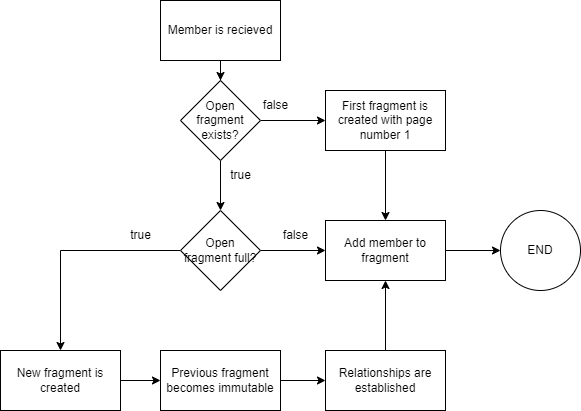
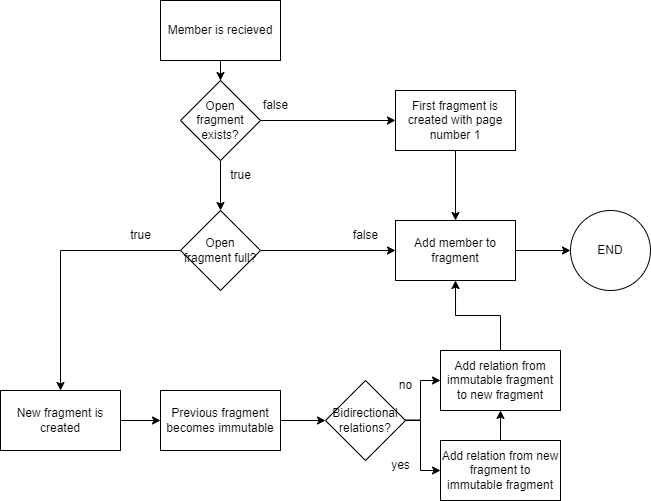
Fix: Test bidirectional relations

diff --git a/ldes-server-port-admin-rest/src/test/java/be/vlaanderen/informatievlaanderen/ldes/server/admin/rest/controllers/SnapshotControllerTest.java b/ldes-server-port-admin-rest/src/test/java/be/vlaanderen/informatievlaanderen/ldes/server/admin/rest/controllers/SnapshotControllerTest.java
@@ -1,11 +1,8 @@
 package be.vlaanderen.informatievlaanderen.ldes.server.admin.rest.controllers;
 
 import be.vlaanderen.informatievlaanderen.ldes.server.admin.rest.exceptionhandling.AdminRestResponseEntityExceptionHandler;
-import be.vlaanderen.informatievlaanderen.ldes.server.domain.exceptions.MissingLdesConfigException;
-import be.vlaanderen.informatievlaanderen.ldes.server.domain.ldesconfig.valueobjects.LdesConfigModel;
 import be.vlaanderen.informatievlaanderen.ldes.server.domain.snapshot.exception.SnapshotCreationException;
 import be.vlaanderen.informatievlaanderen.ldes.server.domain.snapshot.services.SnapshotService;
-import org.apache.jena.rdf.model.Model;
 import org.junit.jupiter.api.Test;
 import org.springframework.beans.factory.annotation.Autowired;
 import org.springframework.boot.test.autoconfigure.web.servlet.WebMvcTest;
@@ -15,9 +12,7 @@ import org.springframework.test.web.servlet.MockMvc;
 import org.springframework.test.web.servlet.ResultActions;
 
 import static org.junit.jupiter.api.Assertions.assertEquals;
-import static org.junit.jupiter.api.Assertions.assertThrows;
 import static org.mockito.Mockito.*;
-import static org.springframework.test.web.servlet.request.MockMvcRequestBuilders.get;
 import static org.springframework.test.web.servlet.request.MockMvcRequestBuilders.post;
 import static org.springframework.test.web.servlet.result.MockMvcResultHandlers.print;
 import static org.springframework.test.web.servlet.result.MockMvcResultMatchers.status;

diff --git a/ldes-server-domain/src/test/java/be/vlaanderen/informatievlaanderen/ldes/server/domain/snapshot/config/SnapshotConfigTest.java b/ldes-server-domain/src/test/java/be/vlaanderen/informatievlaanderen/ldes/server/domain/snapshot/config/SnapshotConfigTest.java
@@ -2,7 +2,6 @@ package be.vlaanderen.informatievlaanderen.ldes.server.domain.snapshot.config;
 
 import be.vlaanderen.informatievlaanderen.ldes.server.domain.ldesfragment.repository.LdesFragmentRepository;
 import be.vlaanderen.informatievlaanderen.ldes.server.domain.ldesfragment.services.FragmentationStrategy;
-import be.vlaanderen.informatievlaanderen.ldes.server.domain.ldesfragment.services.FragmentationStrategyImpl;
 import be.vlaanderen.informatievlaanderen.ldes.server.domain.ldesfragment.services.NonCriticalTasksExecutor;
 import be.vlaanderen.informatievlaanderen.ldes.server.domain.tree.member.repository.MemberRepository;
 import be.vlaanderen.informatievlaanderen.ldes.server.domain.viewcreation.services.FragmentationStrategyWrapper;
@@ -12,7 +11,6 @@ import org.springframework.context.ApplicationContext;
 
 import static be.vlaanderen.informatievlaanderen.ldes.server.domain.viewcreation.valueobjects.ViewConfig.DEFAULT_VIEW_FRAGMENTATION_PROPERTIES;
 import static be.vlaanderen.informatievlaanderen.ldes.server.domain.viewcreation.valueobjects.ViewConfig.DEFAULT_VIEW_FRAGMENTATION_STRATEGY;
-import static org.junit.jupiter.api.Assertions.*;
 import static org.mockito.Mockito.*;
 
 class SnapshotConfigTest {

diff --git a/ldes-server-infra-mongo/mongo-repository/src/main/java/be/vlaanderen/informatievlaanderen/ldes/server/infra/mongo/snapshot/SnapshotMongoRepository.java b/ldes-server-infra-mongo/mongo-repository/src/main/java/be/vlaanderen/informatievlaanderen/ldes/server/infra/mongo/snapshot/SnapshotMongoRepository.java
@@ -5,8 +5,6 @@ import be.vlaanderen.informatievlaanderen.ldes.server.domain.snapshot.repository
 import be.vlaanderen.informatievlaanderen.ldes.server.infra.mongo.snapshot.entity.SnapshotEntity;
 import be.vlaanderen.informatievlaanderen.ldes.server.infra.mongo.snapshot.repository.SnapshotEntityRepository;
 
-import java.util.List;
-
 public class SnapshotMongoRepository implements SnapshotRepository {
 	private final SnapshotEntityRepository snapshotEntityRepository;
 

diff --git a/ldes-server-domain/src/test/java/be/vlaanderen/informatievlaanderen/ldes/server/domain/viewcreation/valueobjects/ViewConfigTest.java b/ldes-server-domain/src/test/java/be/vlaanderen/informatievlaanderen/ldes/server/domain/viewcreation/valueobjects/ViewConfigTest.java
@@ -48,7 +48,7 @@ class ViewConfigTest {
 		assertEquals(1, defaultViewSpecification.getFragmentations().size());
 		assertEquals(List.of(), defaultViewSpecification.getRetentionConfigs());
 		verifyViewSpecification(defaultViewSpecification.getFragmentations().get(0), "pagination",
-				Map.of("memberLimit", "100"));
+				Map.of("memberLimit", "100", "bidirectionalRelations", "false"));
 	}
 
 	private void verifyRetentionPolicy(RetentionConfig retentionConfig) {

diff --git a/ldes-server-domain/src/test/java/be/vlaanderen/informatievlaanderen/ldes/server/domain/tree/node/services/TreeNodeFactoryImplTest.java b/ldes-server-domain/src/test/java/be/vlaanderen/informatievlaanderen/ldes/server/domain/tree/node/services/TreeNodeFactoryImplTest.java
@@ -13,7 +13,6 @@ import org.junit.jupiter.api.Test;
 
 import java.util.List;
 import java.util.Optional;
-import java.util.stream.Stream;
 
 import static org.junit.jupiter.api.Assertions.assertEquals;
 import static org.junit.jupiter.api.Assertions.assertThrows;

diff --git a/ldes-fragmentisers/ldes-fragmentisers-pagination/README.md b/ldes-fragmentisers/ldes-fragmentisers-pagination/README.md
@@ -9,24 +9,29 @@ This is meant to be a standard way of fragmentation.
   name: "pagination"
   config:
     memberLimit: { Mandatory: member limit > 0 }
+    bidirectionalRelations: { Optional: true or false (true is default) }
   ```
 
 ## Algorithm
 
 1. The fragment to which the member should be added is determined.
-   - The currently open fragment is retrieved from the database.
-   - If this fragment contains members equal to or exceeding the member limit or no fragment can be found, a new fragment is created instead.
-2. If a new fragment is created, the following steps are taken. 
-   - The new fragment becomes the new open fragment and the previous fragment becomes immutable<sup>1</sup>.
-   - This newly created fragment and the previous fragment are then linked with each other by 2 generic relationships<sup>1</sup>.
-   - The pagenumber of the new fragment is determined based on the old fragment or is set to 1 in case of the first fragment.
+    - The currently open fragment is retrieved from the database.
+    - If this fragment contains members equal to or exceeding the member limit or no fragment can be found, a new
+      fragment is created instead.
+2. If a new fragment is created, the following steps are taken.
+    - The new fragment becomes the new open fragment and the previous fragment becomes immutable<sup>1</sup>.
+    - This newly created fragment and the previous fragment are then linked with each other by 2 generic
+      relationships<sup>1</sup><sup>2</sup>.
+    - The pagenumber of the new fragment is determined based on the old fragment or is set to 1 in case of the first
+      fragment.
 
 <sup>1</sup> In case of the first fragment, a previous fragment does not exist so these steps are skipped.
+<sup>2</sup> This is the default behaviour. If `bidirectionalRelations` is set to `false`, there will only be a relation
+from the previous fragment to the new fragment.
 
 ![](content/paginationAlgorithm.png)
 
 ## Example properties
-
 
   ```yaml
   name: "pagination"

diff --git a/README.md b/README.md
@@ -241,7 +241,8 @@ Full documentation for pagination fragmentation can be found [here](ldes-fragmen
   ```yaml
   name: "pagination"
   config:
-    memberLimit: { member limit > 0 }
+    memberLimit: { Mandatory: member limit > 0 }
+    bidirectionalRelations: { Optional: true or false (true is default) }
   ```
 
 ##### Example Serving Static Content
